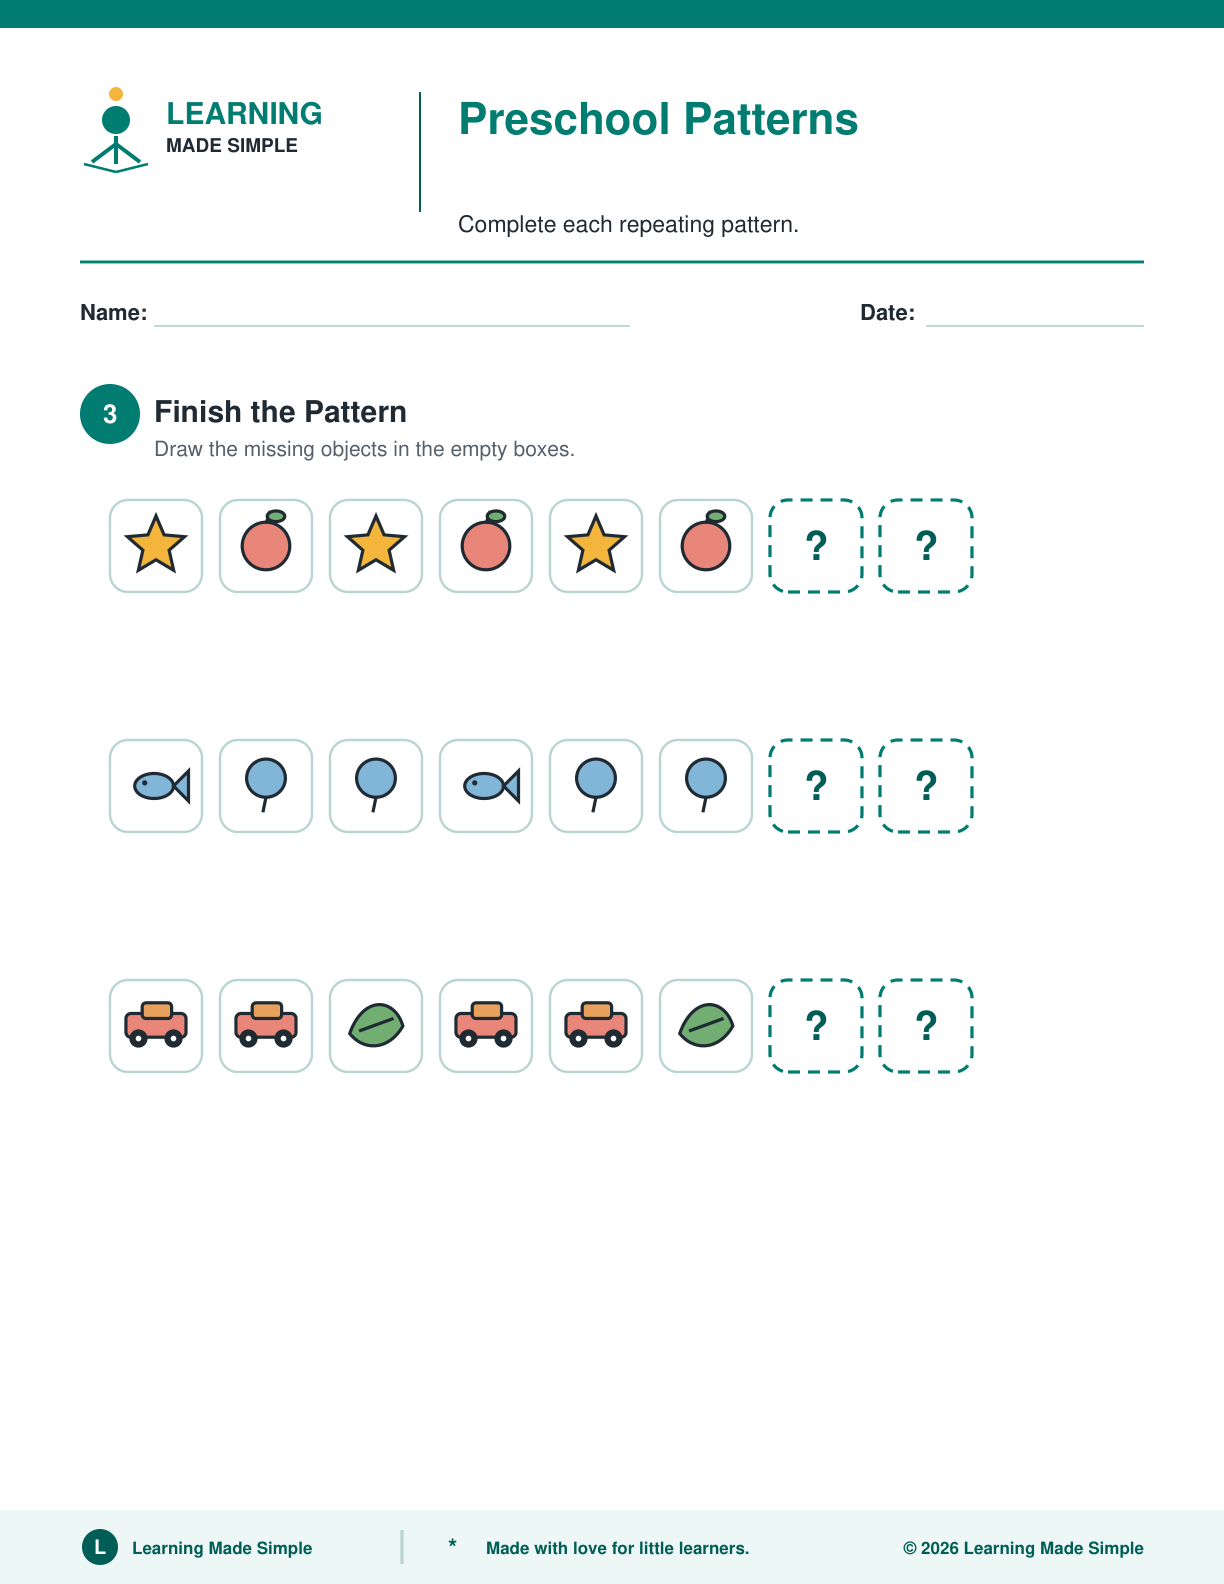
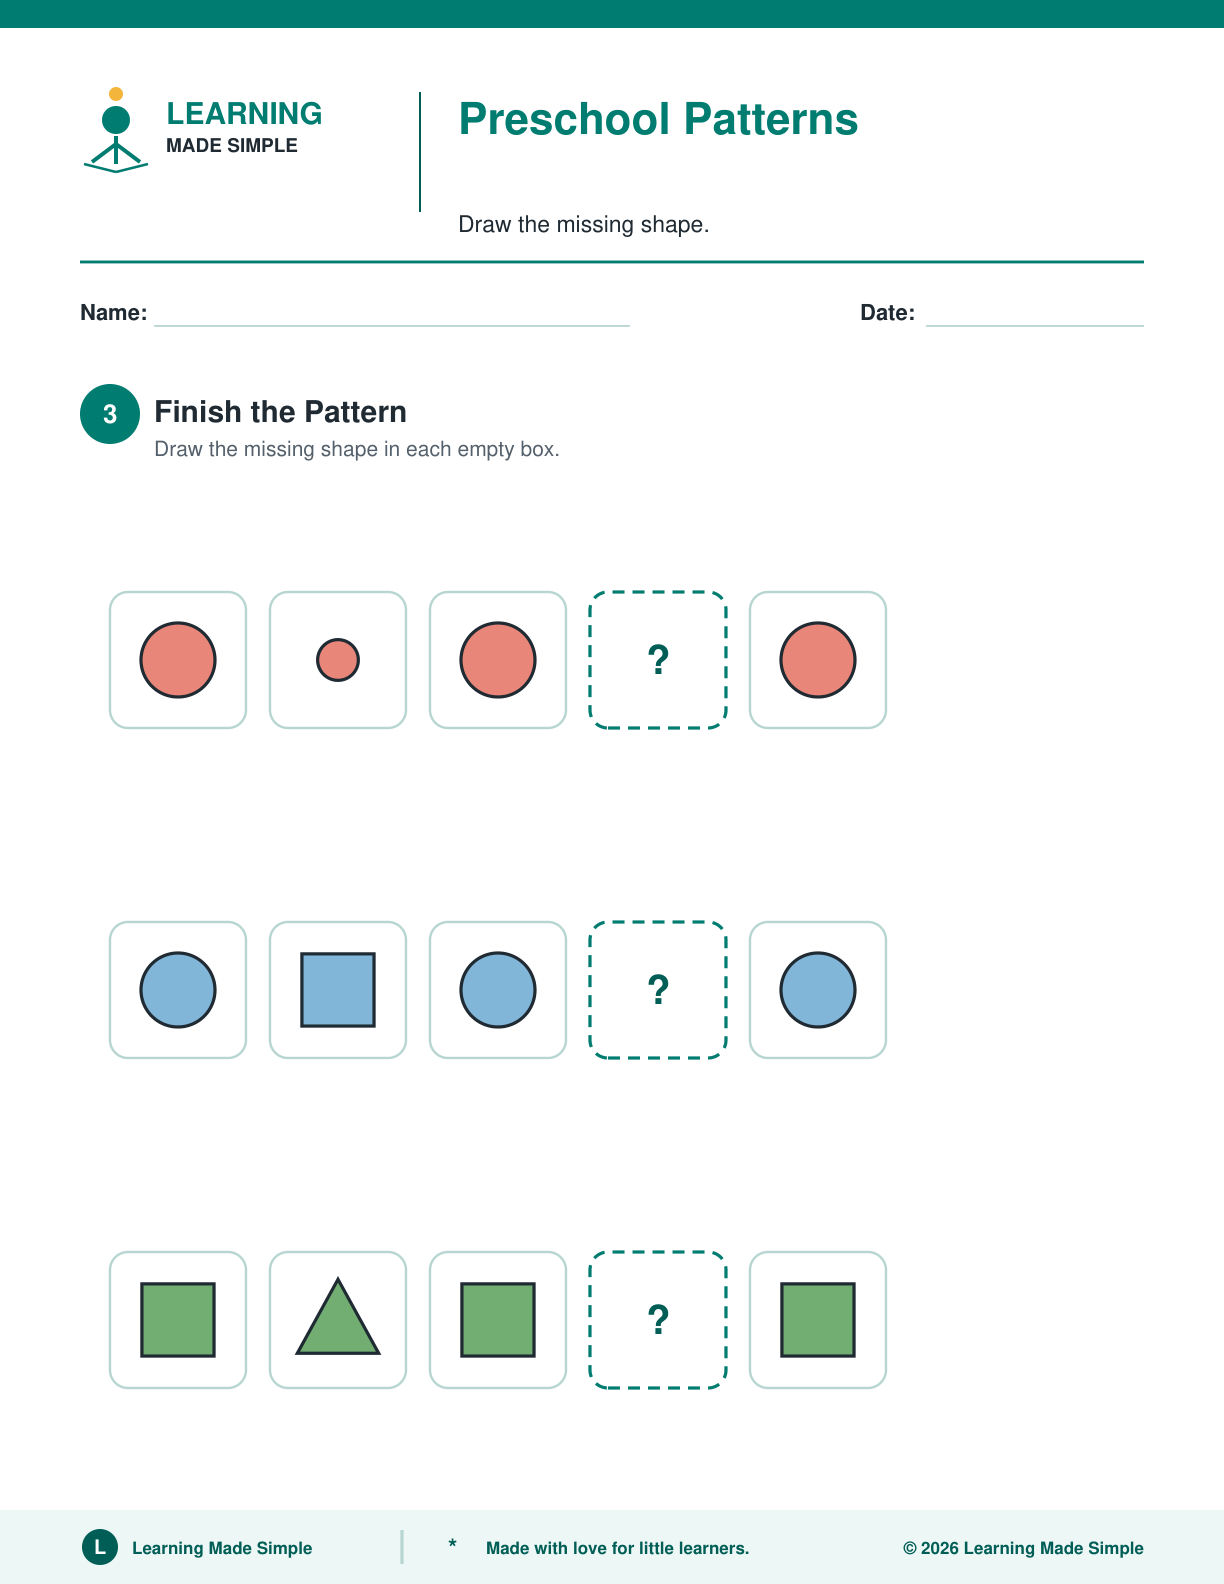
Rebuild Patterns sample: simple drawable shapes, no pre-circled choices, top spacing

diff --git a/worksheet-generator/generate_worksheet.py b/worksheet-generator/generate_worksheet.py
@@ -30,6 +30,11 @@ GREEN = HexColor("#72AE72")
 BLUE = HexColor("#82B7D8")
 PURPLE = HexColor("#AA91C4")
 ORANGE = HexColor("#E9A25D")
+ELEPHANT = HexColor("#9DB1C7")
+ELEPHANT_DARK = HexColor("#7E96B0")
+MONKEY = HexColor("#A67C52")
+MONKEY_TAN = HexColor("#EBCB9B")
+LION_TAN = HexColor("#F8E3B0")
 
 
 def draw_logo(pdf: canvas.Canvas, x: float, y: float) -> None:
@@ -290,6 +295,107 @@ def draw_footer(pdf: canvas.Canvas) -> None:
     pdf.drawRightString(PAGE_WIDTH - MARGIN, 15, "\u00a9 2026 Learning Made Simple")
 
 
+def _draw_elephant(pdf: canvas.Canvas, x: float, y: float, size: float) -> None:
+    """Simple friendly elephant centered at x/y; size is the bounding size."""
+    pdf.setFillColor(ELEPHANT)
+    pdf.setStrokeColor(INK)
+    pdf.setLineWidth(1.6)
+    # body
+    pdf.ellipse(x - size * .32, y - size * .20, x + size * .28, y + size * .20, fill=1, stroke=1)
+    # tail
+    pdf.setStrokeColor(ELEPHANT_DARK)
+    pdf.setLineWidth(size * .045)
+    pdf.line(x - size * .31, y + size * .05, x - size * .42, y + size * .16)
+    # ear
+    pdf.setFillColor(ELEPHANT_DARK)
+    pdf.setStrokeColor(INK)
+    pdf.setLineWidth(1.4)
+    pdf.circle(x + size * .08, y + size * .08, size * .15, fill=1, stroke=1)
+    # head
+    pdf.setFillColor(ELEPHANT)
+    pdf.circle(x + size * .26, y + size * .04, size * .17, fill=1, stroke=1)
+    # trunk
+    pdf.setStrokeColor(ELEPHANT)
+    pdf.setLineWidth(size * .12)
+    pdf.setLineCap(1)
+    trunk = pdf.beginPath()
+    trunk.moveTo(x + size * .36, y + size * .02)
+    trunk.curveTo(x + size * .44, y - size * .12, x + size * .44, y - size * .24,
+                  x + size * .36, y - size * .36)
+    pdf.drawPath(trunk, fill=0, stroke=1)
+    pdf.setLineCap(0)
+    # eye
+    pdf.setFillColor(INK)
+    pdf.circle(x + size * .28, y + size * .09, size * .035, fill=1, stroke=0)
+    pdf.setStrokeColor(INK)
+    pdf.setLineWidth(1.6)
+
+
+def _draw_lion(pdf: canvas.Canvas, x: float, y: float, size: float) -> None:
+    """Simple friendly lion face centered at x/y."""
+    pdf.setStrokeColor(INK)
+    pdf.setLineWidth(1.6)
+    # mane
+    pdf.setFillColor(ORANGE)
+    pdf.circle(x, y, size * .38, fill=1, stroke=1)
+    # ears
+    pdf.circle(x - size * .24, y + size * .26, size * .10, fill=1, stroke=1)
+    pdf.circle(x + size * .24, y + size * .26, size * .10, fill=1, stroke=1)
+    # face
+    pdf.setFillColor(GOLD)
+    pdf.circle(x, y, size * .25, fill=1, stroke=1)
+    # eyes
+    pdf.setFillColor(INK)
+    pdf.circle(x - size * .10, y + size * .07, size * .035, fill=1, stroke=0)
+    pdf.circle(x + size * .10, y + size * .07, size * .035, fill=1, stroke=0)
+    # muzzle
+    pdf.setFillColor(LION_TAN)
+    pdf.setStrokeColor(INK)
+    pdf.setLineWidth(1.2)
+    pdf.ellipse(x - size * .12, y - size * .15, x + size * .12, y - size * .01, fill=1, stroke=1)
+    # nose
+    pdf.setFillColor(INK)
+    nose = pdf.beginPath()
+    nose.moveTo(x - size * .045, y - size * .045)
+    nose.lineTo(x + size * .045, y - size * .045)
+    nose.lineTo(x, y - size * .10)
+    nose.close()
+    pdf.drawPath(nose, fill=1, stroke=0)
+
+
+def _draw_monkey(pdf: canvas.Canvas, x: float, y: float, size: float) -> None:
+    """Simple friendly monkey face centered at x/y."""
+    pdf.setStrokeColor(INK)
+    pdf.setLineWidth(1.6)
+    # ears
+    pdf.setFillColor(MONKEY)
+    pdf.circle(x - size * .30, y + size * .04, size * .12, fill=1, stroke=1)
+    pdf.circle(x + size * .30, y + size * .04, size * .12, fill=1, stroke=1)
+    pdf.setFillColor(MONKEY_TAN)
+    pdf.circle(x - size * .30, y + size * .04, size * .06, fill=1, stroke=0)
+    pdf.circle(x + size * .30, y + size * .04, size * .06, fill=1, stroke=0)
+    # head
+    pdf.setFillColor(MONKEY)
+    pdf.setStrokeColor(INK)
+    pdf.circle(x, y, size * .28, fill=1, stroke=1)
+    # face
+    pdf.setFillColor(MONKEY_TAN)
+    pdf.ellipse(x - size * .18, y - size * .16, x + size * .18, y + size * .10, fill=1, stroke=0)
+    # eyes
+    pdf.setFillColor(INK)
+    pdf.circle(x - size * .08, y + size * .03, size * .035, fill=1, stroke=0)
+    pdf.circle(x + size * .08, y + size * .03, size * .035, fill=1, stroke=0)
+    # smile
+    pdf.setStrokeColor(INK)
+    pdf.setLineWidth(1.4)
+    smile = pdf.beginPath()
+    smile.moveTo(x - size * .08, y - size * .06)
+    smile.curveTo(x - size * .04, y - size * .11, x + size * .04, y - size * .11,
+                  x + size * .08, y - size * .06)
+    pdf.drawPath(smile, fill=0, stroke=1)
+    pdf.setLineWidth(1.6)
+
+
 def draw_object(pdf: canvas.Canvas, kind: str, x: float, y: float, size: float) -> None:
     """Draw one simple, original counting object centered at x/y."""
     pdf.setStrokeColor(INK)
@@ -363,6 +469,14 @@ def draw_object(pdf: canvas.Canvas, kind: str, x: float, y: float, size: float) 
         pdf.roundRect(x - size * .045, y - size * .28, size * .09, size * .55, size * .04, fill=1, stroke=0)
         pdf.line(x, y + size * .25, x - size * .14, y + size * .43)
         pdf.line(x, y + size * .25, x + size * .14, y + size * .43)
+    elif kind == "elephant":
+        _draw_elephant(pdf, x, y, size)
+    elif kind == "baby-elephant":
+        _draw_elephant(pdf, x, y - size * .08, size * .50)
+    elif kind == "lion":
+        _draw_lion(pdf, x, y, size)
+    elif kind == "monkey":
+        _draw_monkey(pdf, x, y, size)
     else:
         raise ValueError(f"Unknown object kind: {kind}")
 
@@ -2063,7 +2177,55 @@ def build_arithmetic_facts_pack(pdf: canvas.Canvas, data: dict) -> None:
 
 PATTERN_OBJECT_KINDS = frozenset({
     "apple", "star", "balloon", "flower", "fish", "leaf", "car", "butterfly",
+    "elephant", "baby-elephant", "lion", "monkey",
 })
+
+PATTERN_SHAPE_COLORS = {
+    "red": CORAL, "blue": BLUE, "yellow": GOLD, "green": GREEN, "purple": PURPLE,
+}
+PATTERN_SHAPES = ("circle", "square", "triangle")
+
+
+def draw_pattern_shape(pdf: canvas.Canvas, spec: dict, center_x: float,
+                       center_y: float, size: float) -> None:
+    """Draw one simple shape a preschooler can copy: circle, square, triangle."""
+    shape = spec.get("shape")
+    color = PATTERN_SHAPE_COLORS.get(spec.get("color"))
+    scale = spec.get("scale", 1.0)
+    if shape not in PATTERN_SHAPES or color is None:
+        raise ValueError(f"Bad pattern shape spec: {spec!r}.")
+    if not isinstance(scale, (int, float)) or not 0.2 <= scale <= 1.5:
+        raise ValueError(f"Bad pattern shape scale: {spec!r}.")
+    size = size * scale
+    pdf.setStrokeColor(INK)
+    pdf.setLineWidth(1.6)
+    pdf.setFillColor(color)
+    if shape == "circle":
+        pdf.circle(center_x, center_y, size * .40, fill=1, stroke=1)
+    elif shape == "square":
+        side = size * .78
+        pdf.rect(center_x - side / 2, center_y - side / 2, side, side,
+                 fill=1, stroke=1)
+    else:
+        path = pdf.beginPath()
+        path.moveTo(center_x, center_y + size * .44)
+        path.lineTo(center_x - size * .44, center_y - size * .36)
+        path.lineTo(center_x + size * .44, center_y - size * .36)
+        path.close()
+        pdf.drawPath(path, fill=1, stroke=1)
+
+
+def _validate_pattern_spec(value, context: str) -> None:
+    if isinstance(value, dict):
+        if value.get("shape") not in PATTERN_SHAPES:
+            raise ValueError(f"{context} uses unsupported shape: {value!r}.")
+        if value.get("color") not in PATTERN_SHAPE_COLORS:
+            raise ValueError(f"{context} uses unsupported color: {value!r}.")
+        scale = value.get("scale", 1.0)
+        if not isinstance(scale, (int, float)) or not 0.2 <= scale <= 1.5:
+            raise ValueError(f"{context} uses unsupported scale: {value!r}.")
+    else:
+        _require_object_kind(value, context)
 
 
 def _require_object_kind(kind: str, context: str) -> str:
@@ -2089,77 +2251,84 @@ def draw_pattern_cells(pdf: canvas.Canvas, sequence: list, x: float, y: float,
             pdf.setFont("Helvetica-Bold", 20)
             pdf.drawCentredString(center_x, center_y - 7, "?")
         else:
-            _require_object_kind(kind, "Pattern")
+            _validate_pattern_spec(kind, "Pattern")
             pdf.setFillColor(white)
             pdf.setStrokeColor(BORDER)
             pdf.setLineWidth(1.2)
             pdf.roundRect(cell_x, y, box, box, 9, fill=1, stroke=1)
-            draw_object(pdf, kind, center_x, center_y, box * 0.68)
+            if isinstance(kind, dict):
+                draw_pattern_shape(pdf, kind, center_x, center_y, box * 0.68)
+            else:
+                draw_object(pdf, kind, center_x, center_y, box * 0.68)
 
 
 def draw_choice_circles(pdf: canvas.Canvas, choices: list, x: float, y: float,
                         radius: float = 24.0, gap: float = 18.0) -> None:
     accents = (TEAL, BLUE, GOLD, CORAL, PURPLE)
     for index, kind in enumerate(choices):
-        _require_object_kind(kind, "Pattern choice")
+        _validate_pattern_spec(kind, "Pattern choice")
         center_x = x + radius + index * (radius * 2 + gap)
         pdf.setFillColor(white)
         pdf.setStrokeColor(accents[index % len(accents)])
         pdf.setLineWidth(2)
         pdf.circle(center_x, y, radius, fill=1, stroke=1)
-        draw_object(pdf, kind, center_x, y, radius * 1.1)
+        if isinstance(kind, dict):
+            draw_pattern_shape(pdf, kind, center_x, y, radius * 1.1)
+        else:
+            draw_object(pdf, kind, center_x, y, radius * 1.1)
 
 
 def draw_meet_patterns(pdf: canvas.Canvas, items: list) -> None:
-    y = 490
-    for item in items:
+    """Three big complete patterns for little learners to look at and say aloud."""
+    for index, item in enumerate(items[:3]):
+        top = 505 - index * 160
         pdf.setFillColor(TEAL_DARK)
         pdf.setFont("Helvetica-Bold", 13)
-        pdf.drawString(55, y + 58, item["label"])
-        draw_pattern_cells(pdf, item["sequence"], 55, y, box=46.0)
-        y -= 118
+        pdf.drawString(55, top - 2, item["label"])
+        draw_pattern_cells(pdf, item["sequence"], 55, top - 78, box=64.0, gap=12.0)
 
 
 def draw_pattern_next(pdf: canvas.Canvas, items: list) -> None:
-    y = 460
-    for item in items:
-        draw_pattern_cells(pdf, list(item["sequence"]) + [None], 55, y + 50, box=44.0)
-        pdf.setFillColor(MUTED)
-        pdf.setFont("Helvetica-Bold", 11)
-        pdf.drawString(55, y + 16, "Choices: circle what comes next.")
-        draw_choice_circles(pdf, item["choices"], 55, y - 14, radius=24.0)
-        y -= 118
+    """Three big 'what comes next' rows; plain tiles for choices, never circles."""
+    for index, item in enumerate(items[:3]):
+        top = 512 - index * 160
+        draw_pattern_cells(pdf, list(item["sequence"]) + [None], 55, top - 72,
+                           box=60.0, gap=12.0)
+        draw_pattern_cells(pdf, item["choices"], 55, top - 142,
+                           box=52.0, gap=12.0)
 
 
 def draw_pattern_finish(pdf: canvas.Canvas, items: list) -> None:
-    y = 496
-    for item in items:
+    """Three big patterns with dashed blanks for kids to draw into."""
+    for index, item in enumerate(items[:3]):
+        top = 508 - index * 165
         blanks = set(item.get("blanks", []))
-        sequence = [kind if index not in blanks else None
-                    for index, kind in enumerate(item["sequence"])]
-        draw_pattern_cells(pdf, sequence, 55, y, box=46.0, gap=9.0)
-        y -= 120
+        sequence = [kind if pos not in blanks else None
+                    for pos, kind in enumerate(item["sequence"])]
+        draw_pattern_cells(pdf, sequence, 55, top - 80, box=68.0, gap=12.0)
 
 
 def draw_pattern_copy(pdf: canvas.Canvas, items: list) -> None:
-    y = 458
-    for item in items:
-        draw_pattern_cells(pdf, item["sequence"], 55, y + 56, box=44.0)
+    """Two big copy rows with large empty boxes underneath each pattern."""
+    for index, item in enumerate(items[:2]):
+        top = 505 - index * 245
+        draw_pattern_cells(pdf, item["sequence"], 55, top - 68, box=60.0, gap=12.0)
         pdf.setFillColor(MUTED)
-        pdf.setFont("Helvetica", 10.5)
-        pdf.drawString(55, y + 32, "Copy it here:")
-        draw_pattern_cells(pdf, [None] * len(item["sequence"]), 55, y - 30, box=44.0)
-        y -= 150
+        pdf.setFont("Helvetica-Bold", 12)
+        pdf.drawString(55, top - 90, "Draw it here:")
+        draw_pattern_cells(pdf, [None] * len(item["sequence"]), 55, top - 160,
+                           box=60.0, gap=12.0)
 
 
 def draw_pattern_create(pdf: canvas.Canvas, items: list) -> None:
-    y = 488
-    for item in items:
+    """Two big create rows with large empty boxes."""
+    for index, item in enumerate(items[:3]):
+        top = 505 - index * 165
         pdf.setFillColor(TEAL_DARK)
-        pdf.setFont("Helvetica-Bold", 12.5)
-        pdf.drawString(55, y + 58, item["label"])
-        draw_pattern_cells(pdf, [None] * item["boxes"], 55, y - 4, box=46.0)
-        y -= 140
+        pdf.setFont("Helvetica-Bold", 13)
+        pdf.drawString(55, top - 2, item["label"])
+        draw_pattern_cells(pdf, [None] * item["boxes"], 55, top - 84,
+                           box=72.0, gap=14.0)
 
 
 def validate_patterns_pack(data: dict) -> None:
@@ -2171,9 +2340,9 @@ def validate_patterns_pack(data: dict) -> None:
         activity = page.get("activity", {})
         for item in activity.get("items", []):
             for kind in item.get("sequence", []):
-                _require_object_kind(kind, "Patterns")
+                _validate_pattern_spec(kind, "Patterns")
             for kind in item.get("choices", []):
-                _require_object_kind(kind, "Patterns")
+                _validate_pattern_spec(kind, "Patterns")
 
 
 def build_patterns_pack(pdf: canvas.Canvas, data: dict) -> None:

diff --git a/worksheet-generator/tests/test_multi_page_preview.py b/worksheet-generator/tests/test_multi_page_preview.py
@@ -22,9 +22,9 @@ class MultiPageMetadataTests(unittest.TestCase):
 
     def test_all_canonical_resources_have_complete_unique_page_metadata(self):
         resources = self._resources()
-        self.assertEqual(len(resources), 18)
+        self.assertEqual(len(resources), 21)
         resource_ids = {resource["id"] for resource in resources}
-        self.assertEqual(len(resource_ids), 18)
+        self.assertEqual(len(resource_ids), 21)
         self.assertIn("3d-shapes", resource_ids)
         self.assertIn("positional-words", resource_ids)
         preview_paths = set()
@@ -48,13 +48,13 @@ class MultiPageMetadataTests(unittest.TestCase):
                 f'{resource["preview_directory"]}/page-01.png',
             )
 
-        self.assertEqual(len(preview_paths), 87)
-        self.assertEqual(len(pdf_paths), 87)
+        self.assertEqual(len(preview_paths), 102)
+        self.assertEqual(len(pdf_paths), 102)
 
     def test_directory_runtime_validation_covers_page_invariants(self):
         source = DIRECTORY_SOURCE.read_text(encoding="utf-8")
         for expected in (
-            "resources.length!==18",
+            "resources.length!==21",
             "resource.pages.length!==resource.pageCount",
             "page.number!==expectedNumber",
             "pagePreviewPaths.has(page.previewPath)",
